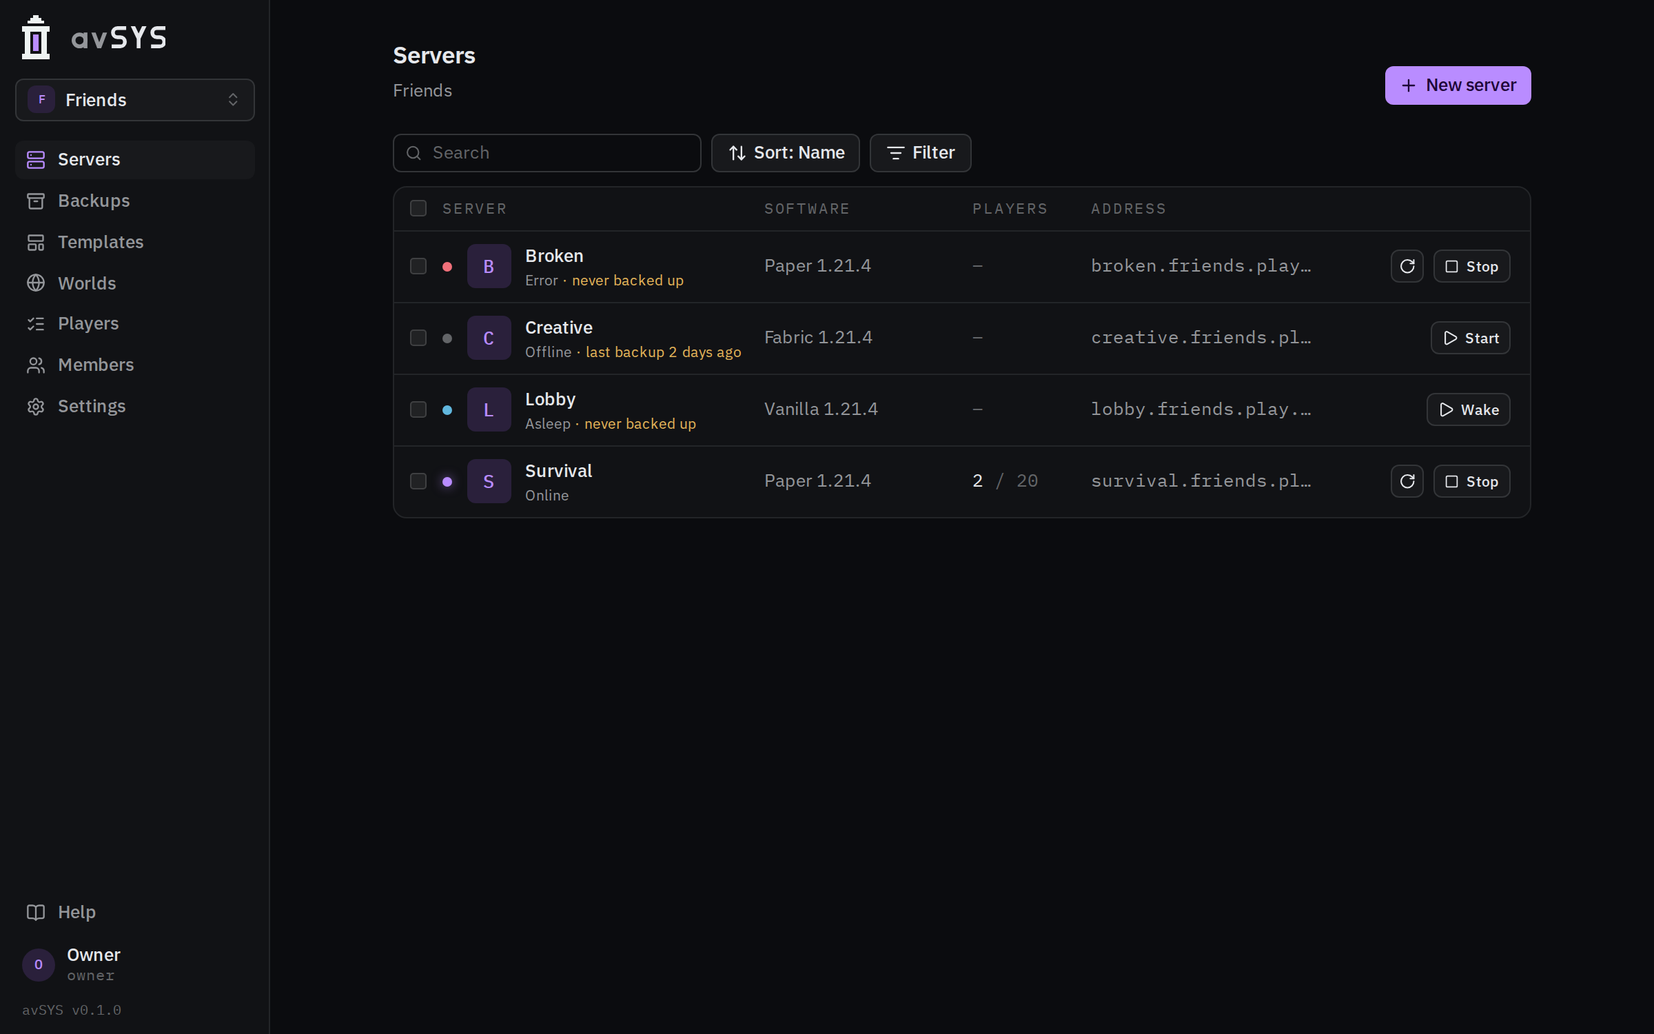
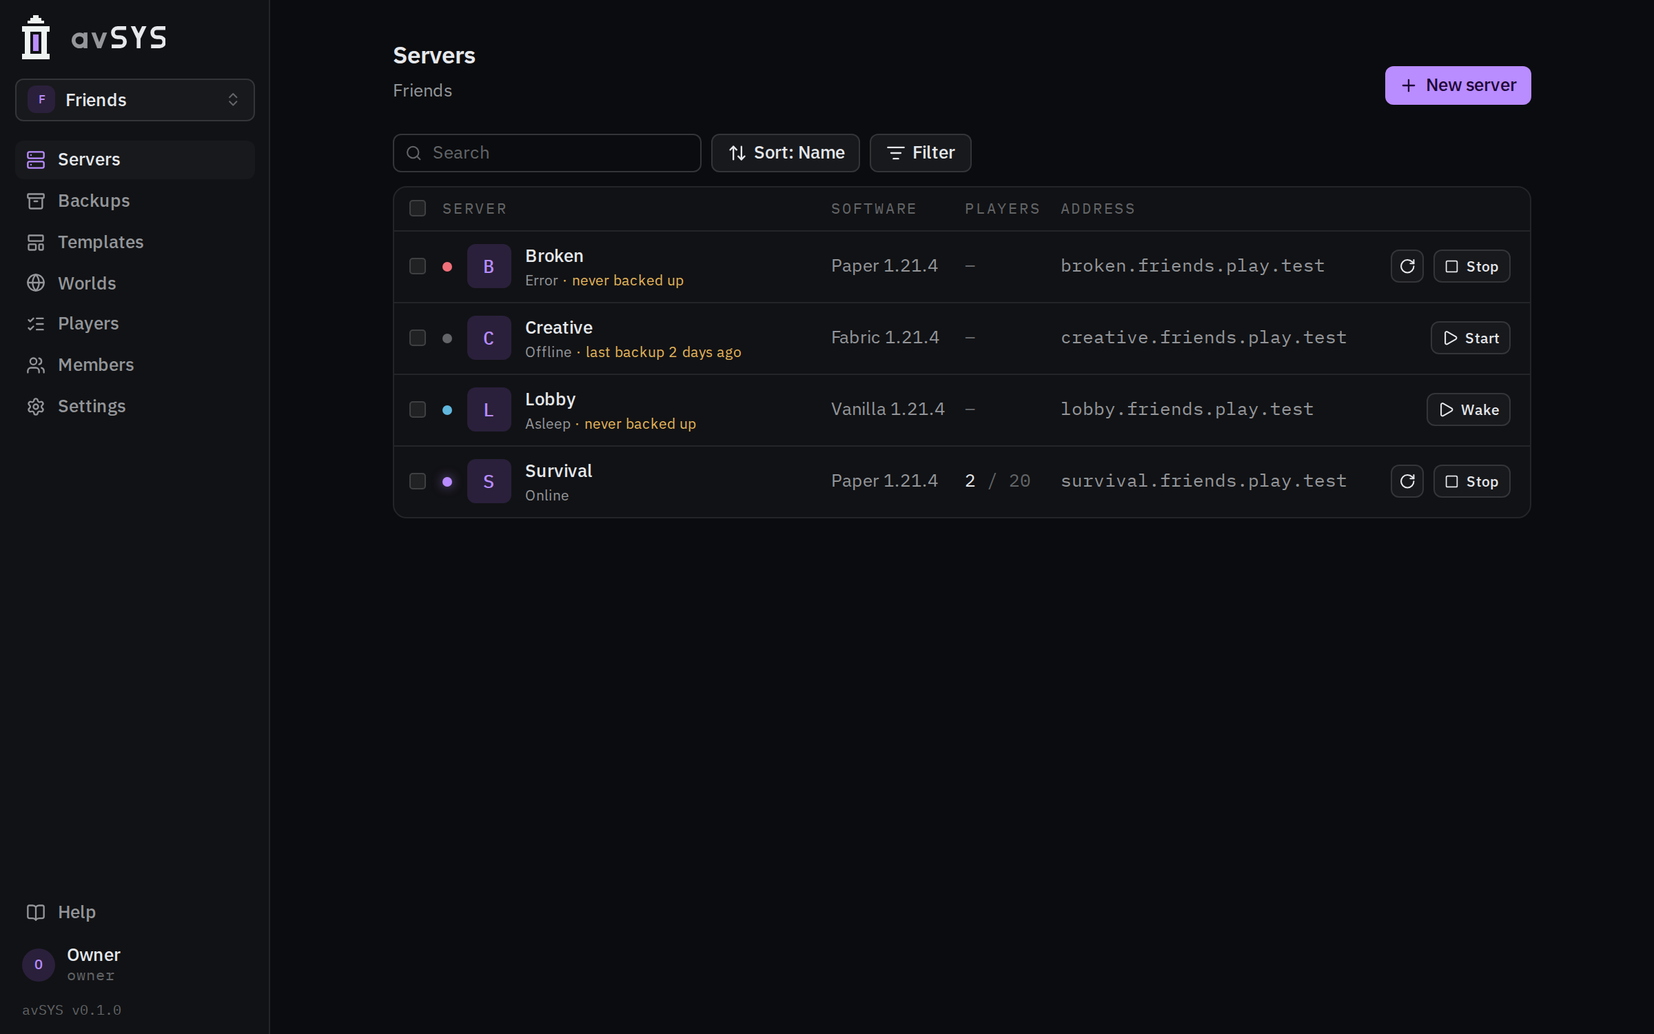
Let a server's name take the room in the servers list
The list's heading and rows share one grid: the name column takes what
the others leave, Software, Players and Address are as wide as what they
say (up to 11rem and 18rem), and the buttons' column fits them. A long
name goes onto a second line before it is cut short, with the whole of it
on hover; an address cut short shows whole when pointed at or tabbed to.
Templates, worlds and backups wrap long names the same way.

Seeds two long-named servers in the test panel's second organization.

diff --git a/web/tests/columns.spec.ts b/web/tests/columns.spec.ts
@@ -1,0 +1,165 @@
+import type { Locator, Page } from "@playwright/test";
+import { expect, test } from "./panel";
+
+// The list of servers is one grid, which its heading and every row share:
+// the name takes the room the other columns do not need, a long one goes
+// onto a second line rather than being cut short, and an address is only as
+// wide as it is, up to a point, past which it is shown whole when pointed at.
+
+const columns = ["server", "software", "players", "address", "actions"] as const;
+const long = ["Harpy Express (Oct. 2026) (Copy)", "Murder Mystery Test Server (Copy)"];
+
+const box = async (l: Locator) => {
+  const b = await l.boundingBox();
+  if (!b) throw new Error("not shown");
+  return b;
+};
+const heading = (page: Page) => page.getByRole("main").locator("div:has(> [data-col=server]):not(a)").first();
+const rows = (page: Page) => page.getByRole("main").getByRole("listitem");
+
+/** Whether an element shows all of its text: none of it cut off at the end or below. */
+const whole = (l: Locator) => l.evaluate((e) => e.scrollWidth <= e.clientWidth + 1 && e.scrollHeight <= e.clientHeight + 1);
+/** How many lines its text takes. */
+const lines = (l: Locator) =>
+  l.evaluate((e) => {
+    const style = getComputedStyle(e);
+    const line = parseFloat(style.lineHeight) || parseFloat(style.fontSize) * 1.2;
+    return Math.round(e.getBoundingClientRect().height / line);
+  });
+
+/** Each column of each row starts and ends where its heading does. */
+async function linedUp(page: Page) {
+  const head = heading(page);
+  const n = await rows(page).count();
+  expect(n).toBeGreaterThan(0);
+  for (const col of columns) {
+    const h = await box(head.locator(`[data-col=${col}]`));
+    for (let i = 0; i < n; i++) {
+      const c = await box(rows(page).nth(i).locator(`[data-col=${col}]`));
+      expect(Math.abs(c.x - h.x), `${col} of row ${i} starts with its heading`).toBeLessThan(1);
+      expect(Math.abs(c.width - h.width), `${col} of row ${i} is as wide as its heading`).toBeLessThan(1);
+    }
+  }
+}
+
+for (const width of [1600, 1100]) {
+  test.describe(`at ${width} wide`, () => {
+    test.beforeEach(async ({ page }) => page.setViewportSize({ width, height: 900 }));
+
+    test("long names are shown whole, and the heading lines up with the rows", async ({ page, as }) => {
+      await as("owner");
+      await page.goto("/o/club");
+      await expect(rows(page)).toHaveCount(5);
+      for (const name of long) {
+        const shown = page.getByRole("main").getByTitle(name, { exact: true });
+        await expect(shown).toHaveText(name);
+        expect(await whole(shown), `${name} is not cut short`).toBe(true);
+        expect(await lines(shown)).toBeLessThanOrEqual(2);
+      }
+      await linedUp(page);
+      // The address column is as wide as the widest address, and no wider.
+      const addresses = rows(page).locator("[data-col=address] > *");
+      const widest = Math.max(...(await addresses.evaluateAll((all) => all.map((e) => e.getBoundingClientRect().width))));
+      const column = await box(heading(page).locator("[data-col=address]"));
+      expect(column.width).toBeLessThanOrEqual(widest + 1);
+      for (const address of await rows(page).locator("[data-col=address] button span").all()) expect(await whole(address)).toBe(true);
+      // So the one with a short address has its buttons close after the widest.
+      const harpy = rows(page).filter({ hasText: long[0] });
+      const after = (await box(harpy.locator("[data-col=actions] button").first())).x - (column.x + column.width);
+      expect(after).toBeLessThanOrEqual(17);
+    });
+
+    test("with no addresses, the name has the room", async ({ page, as, org, api }) => {
+      const slug = await org([]);
+      const owner = api("owner");
+      for (const [name, displayName] of [
+        ["harpy", long[0]],
+        ["mystery", long[1]],
+        ["a", "A"],
+      ])
+        await owner.post(`/orgs/${slug}/servers`, {
+          name,
+          spec: { eula: true, displayName, loader: "paper", version: "1.21.4", state: "Stopped", resources: { memory: "2Gi" }, storage: { size: "2Gi" } },
+        });
+      await as("owner");
+      await page.goto(`/o/${slug}`);
+      await expect(rows(page)).toHaveCount(3);
+      await linedUp(page);
+      const list = await box(heading(page));
+      const server = await box(heading(page).locator("[data-col=server]"));
+      expect(server.width).toBeGreaterThan(list.width * 0.45);
+      // "No address" ends a column's gap from the buttons.
+      for (const name of long) {
+        const row = rows(page).filter({ hasText: name });
+        await expect(row.getByTitle(name, { exact: true })).toHaveText(name);
+        expect(await lines(row.getByTitle(name, { exact: true }))).toBe(1);
+        const none = await box(row.getByText("No address"));
+        const actions = await box(row.locator("[data-col=actions] button"));
+        expect(actions.x - (none.x + none.width)).toBeLessThanOrEqual(17);
+      }
+    });
+
+    test("a long address is cut short, and shown whole when pointed at or tabbed to", async ({ page, as, org }) => {
+      const slug = await org(["far", "near"]);
+      const far = "survival-world-for-the-whole-club.pc.tail1cd093.ts.net";
+      await page.route(`**/api/v1/orgs/${slug}/servers`, async (route) => {
+        const servers = await (await route.fetch()).json();
+        for (const s of servers) s.status.address = s.name === "far" ? far : "lobby.2cml.org";
+        await route.fulfill({ json: servers });
+      });
+      await as("owner");
+      await page.goto(`/o/${slug}`);
+      await expect(rows(page)).toHaveCount(2);
+      await linedUp(page);
+      const column = await box(heading(page).locator("[data-col=address]"));
+      const rem = await page.evaluate(() => parseFloat(getComputedStyle(document.documentElement).fontSize));
+      expect(column.width).toBeLessThanOrEqual(18 * rem + 1);
+      const address = page.getByRole("button", { name: far });
+      expect(await whole(address.locator("span").first())).toBe(false);
+      await address.hover();
+      await expect(page.getByRole("tooltip")).toHaveText(far);
+      await page.mouse.move(0, 0);
+      await expect(page.getByRole("tooltip")).toBeHidden();
+      // One that fits has nothing more to show.
+      const near = page.getByRole("button", { name: "lobby.2cml.org" });
+      await near.hover();
+      await expect(near).toHaveAttribute("title", "Copy");
+      await page.waitForTimeout(500);
+      await expect(page.getByRole("tooltip")).toBeHidden();
+      await page.mouse.move(0, 0);
+      await expect(page.getByRole("tooltip")).toBeHidden();
+      // From the server's link, the next stop is its address.
+      await rows(page).filter({ hasText: "far" }).getByRole("link").focus();
+      await page.keyboard.press("Tab");
+      await expect(address).toBeFocused();
+      await expect(page.getByRole("tooltip")).toHaveText(far);
+    });
+  });
+}
+
+test("just wide enough for columns, every row fits, and its buttons are whole", async ({ page, as }) => {
+  await page.setViewportSize({ width: 800, height: 900 });
+  await as("owner");
+  await page.goto("/o/friends");
+  await expect(rows(page)).toHaveCount(4);
+  await linedUp(page);
+  const list = await box(heading(page));
+  for (const row of await rows(page).all()) {
+    const actions = await box(row.locator("[data-col=actions]"));
+    expect(actions.x + actions.width).toBeLessThanOrEqual(list.x + list.width);
+    for (const button of await row.locator("[data-col=actions] button").all()) expect(await whole(button)).toBe(true);
+  }
+});
+
+test("on a phone a row is its name and its buttons", async ({ page, as }) => {
+  await page.setViewportSize({ width: 390, height: 844 });
+  await as("owner");
+  await page.goto("/o/club");
+  const harpy = rows(page).filter({ hasText: long[0] });
+  await expect(harpy.locator("[data-col=software]")).toBeHidden();
+  await expect(harpy.locator("[data-col=address]")).toBeHidden();
+  const name = await box(harpy.locator("[data-col=server]"));
+  const actions = await box(harpy.locator("[data-col=actions]"));
+  expect(actions.x).toBeGreaterThan(name.x + name.width - 1);
+  expect(Math.abs(actions.y + actions.height / 2 - (name.y + name.height / 2))).toBeLessThan(2);
+});

diff --git a/web/src/pages/Servers.tsx b/web/src/pages/Servers.tsx
@@ -58,7 +58,12 @@ const serverList: ListOptions<Server> = {
   ],
 };
 
-const columns = "grid grid-cols-[minmax(0,1.6fr)_minmax(0,1fr)_72px_minmax(0,1.3fr)_112px] items-center gap-4 px-4";
+// One grid for the whole list, which the heading and each row share: the
+// server's name takes what room is left, and the rest are as wide as what
+// they say, up to a point. On a phone a row is its name and its buttons.
+const table = "md:grid md:grid-cols-[minmax(min(18rem,45%),1fr)_fit-content(11rem)_auto_fit-content(18rem)_auto] md:gap-x-4";
+const shared = "md:col-span-full md:grid md:grid-cols-subgrid";
+const columns = `${shared} items-center gap-4 px-4`;
 
 type Act = "start" | "stop" | "restart" | "snapshot" | "delete";
 
@@ -208,22 +213,22 @@ export function Servers() {
         {shown.length === 0 ? (
           <p className="rounded-lg border border-line bg-surface px-4 py-8 text-center text-[13px] text-muted">No servers match.</p>
         ) : (
-        <div className="overflow-hidden rounded-lg border border-line bg-surface">
-          <div className={`${columns} label-mono relative hidden h-9 border-b border-line md:grid ${canOperate ? "pl-10" : ""}`}>
+        <div className={`overflow-hidden rounded-lg border border-line bg-surface ${table}`}>
+          <div className={`${columns} label-mono relative hidden h-9 border-b border-line ${canOperate ? "pl-10" : ""}`}>
             {canOperate && (
               <label className="absolute inset-y-0 left-0 flex w-10 cursor-pointer items-center justify-center">
                 <RowCheckbox checked={selection.all} partial={selection.some} quiet={selection.count === 0} label="Select every server" onChange={selection.toggleAll} />
               </label>
             )}
-            <span>Server</span>
-            <span>Software</span>
-            <span>Players</span>
-            <span>Address</span>
-            <span />
+            <span data-col="server" className="truncate">Server</span>
+            <span data-col="software" className="truncate">Software</span>
+            <span data-col="players" className="truncate">Players</span>
+            <span data-col="address" className="truncate">Address</span>
+            <span data-col="actions" />
           </div>
-          <ul>
+          <ul className={shared}>
             {shown.map((s) => (
-              <li key={s.name} className={`group relative border-b border-line last:border-b-0 ${selection.has(s.name) ? "bg-accent-wash" : ""}`}>
+              <li key={s.name} className={`${shared} group relative border-b border-line last:border-b-0 ${selection.has(s.name) ? "bg-accent-wash" : ""}`}>
                 {canOperate && (
                   <label className="absolute inset-y-0 left-0 z-10 flex w-10 cursor-pointer items-center justify-center">
                     <RowCheckbox checked={selection.has(s.name)} quiet={selection.count === 0} label={`Select ${s.name}`} onChange={(range) => selection.toggle(s.name, range)} />
@@ -231,14 +236,17 @@ export function Servers() {
                 )}
                 <Link
                   to={`s/${s.name}`}
-                  className={`${columns} min-h-14 py-2.5 text-[13px] transition-colors hover:bg-raised max-md:grid-cols-[minmax(0,1fr)_auto] ${canOperate ? "pl-10" : ""}`}
+                  className={`${columns} grid min-h-14 py-2.5 text-[13px] transition-colors hover:bg-raised max-md:grid-cols-[minmax(0,1fr)_auto] ${canOperate ? "pl-10" : ""}`}
                 >
-                  <span className="flex min-w-0 items-center gap-3">
+                  <span data-col="server" className="flex min-w-0 items-center gap-3">
                     <LinkStatusDot phase={s.status.phase} />
                     <Picture name={displayName(s)} url={serverIcon(s)} size={32} retryKey={`${s.status.phase}|${s.status.message ?? ""}`} />
                     <span className="min-w-0">
                       <span className="flex min-w-0 items-center gap-2">
-                        <span className="truncate font-medium">{displayName(s)}</span>
+                        {/* A long one goes onto a second line before it is cut short. */}
+                        <span className="line-clamp-2 min-w-0 font-medium break-words" title={displayName(s)}>
+                          {displayName(s)}
+                        </span>
                         <Faces people={others(people, me, s.name)} label="On this server now" size={18} ring="ring-surface" />
                       </span>
                       <span className="block truncate text-xs text-muted">
@@ -253,12 +261,18 @@ export function Servers() {
                       )}
                     </span>
                   </span>
-                  <span className="truncate text-muted max-md:hidden">{describeSoftware(s)}</span>
-                  <span className="max-md:hidden">
+                  <span data-col="software" className="truncate text-muted max-md:hidden" title={describeSoftware(s)}>
+                    {describeSoftware(s)}
+                  </span>
+                  <span data-col="players" className="whitespace-nowrap max-md:hidden">
                     <Players server={s} />
                   </span>
-                  <span className="min-w-0 max-md:hidden">{s.status.address ? <CopyText value={s.status.address} className="text-muted" /> : <span className="text-faint">No address</span>}</span>
-                  <span className="flex justify-end">{canOperate && <ServerActions server={s} compact />}</span>
+                  <span data-col="address" className="min-w-0 max-md:hidden">
+                    {s.status.address ? <CopyText value={s.status.address} className="text-muted" whole /> : <span className="whitespace-nowrap text-faint">No address</span>}
+                  </span>
+                  <span data-col="actions" className="flex justify-end">
+                    {canOperate && <ServerActions server={s} compact />}
+                  </span>
                 </Link>
               </li>
             ))}

diff --git a/web/src/components/ui.tsx b/web/src/components/ui.tsx
@@ -410,7 +410,7 @@ export function Tip({
           ref={bubble}
           id={id}
           role="tooltip"
-          hidden={!open}
+          hidden={!open || !text}
           style={at ? { left: at.left, top: at.top } : { left: 0, top: 0, visibility: "hidden" }}
           className="pointer-events-none fixed z-[70] w-max max-w-60 rounded-md border border-line-strong bg-surface px-2 py-1 text-xs leading-snug font-normal text-fg shadow-lg shadow-shade/50"
         >
@@ -503,13 +503,22 @@ async function copyToClipboard(value: string, near: HTMLElement) {
   if (!ok) throw new Error("copy was refused");
 }
 
-/** Text that copies itself when clicked: addresses, commands, tokens. */
-export function CopyText({ value, display, className, wrap }: { value: string; display?: ReactNode; className?: string; wrap?: boolean }) {
+/**
+ * Text that copies itself when clicked: addresses, commands, tokens. With
+ * whole, text cut short to fit is shown whole while pointed at or focused.
+ */
+export function CopyText({ value, display, className, wrap, whole }: { value: string; display?: ReactNode; className?: string; wrap?: boolean; whole?: boolean }) {
   const [copied, setCopied] = useState(false);
-  return (
+  const [cut, setCut] = useState(false);
+  const shown = useRef<HTMLSpanElement>(null);
+  const measure = () => setCut(!!shown.current && shown.current.scrollWidth > shown.current.clientWidth);
+  const button = (target?: TipTarget) => (
     <button
       type="button"
-      title="Copy"
+      title={whole && cut ? undefined : "Copy"}
+      {...target}
+      onPointerEnter={whole ? measure : undefined}
+      onFocus={whole ? measure : undefined}
       onClick={(e) => {
         e.preventDefault();
         e.stopPropagation();
@@ -523,9 +532,17 @@ export function CopyText({ value, display, className, wrap }: { value: string; d
       }}
       className={cx("group inline-flex max-w-full items-center gap-1.5 rounded-sm text-left font-mono text-[13px] text-fg hover:text-accent", className)}
     >
-      <span className={wrap ? "break-all" : "truncate"}>{display ?? value}</span>
+      <span ref={shown} className={wrap ? "break-all" : "truncate"}>
+        {display ?? value}
+      </span>
       {copied ? <Check className="size-3.5 shrink-0 text-accent" /> : <Copy className="size-3.5 shrink-0 text-faint opacity-0 transition-opacity group-hover:opacity-100 group-focus-visible:opacity-100" />}
     </button>
+  );
+  if (!whole) return button();
+  return (
+    <Tip text={cut ? value : ""} className="max-w-full min-w-0">
+      {button}
+    </Tip>
   );
 }
 

diff --git a/web/src/pages/Backups.tsx b/web/src/pages/Backups.tsx
@@ -213,7 +213,9 @@ export function Backups() {
                   lead={(s) => (
                     <span className="flex w-36 shrink-0 items-center gap-2 max-sm:w-24">
                       <ServerPicture org={org} name={s.server} server={byName.get(s.server)} known={!!servers.data} newest={groups.get(s.server)?.[0]?.id} size={24} />
-                      <span className="truncate text-[13px] font-medium">{s.server}</span>
+                      <span className="truncate text-[13px] font-medium" title={s.server}>
+                        {s.server}
+                      </span>
                     </span>
                   )}
                 />
@@ -303,7 +305,9 @@ function ServerGroup({ org, name, server, known, items, concern, open, onToggle,
       <ServerPicture org={org} name={name} server={server} known={known} newest={newest?.id} size={32} />
       <span className="min-w-0 flex-1">
         <span className="flex items-center gap-2">
-          <span className="truncate text-[13px] font-medium">{server ? displayName(server) : name}</span>
+          <span className="line-clamp-2 min-w-0 text-[13px] font-medium break-words" title={server ? displayName(server) : name}>
+            {server ? displayName(server) : name}
+          </span>
           {!server && known && <Chip>deleted server</Chip>}
         </span>
         <span className="block truncate text-xs text-muted">

diff --git a/web/src/pages/Worlds.tsx b/web/src/pages/Worlds.tsx
@@ -107,10 +107,10 @@ export function Worlds() {
                   {canDelete && <RowCheckbox checked={selection.has(w.id)} quiet={selection.count === 0} label={`Select ${w.name}`} onChange={(range) => selection.toggle(w.id, range)} className="mr-1" />}
                   <PictureZoom name={w.name} url={worldIcon(org, w.id)} retryKey={w.updatedAt} size={36} path={canAdd ? `/orgs/${org}/worlds/${w.id}/icon` : undefined} />
                   <div className="min-w-0 flex-1">
-                    <p className="truncate text-[13px] font-medium">
+                    <p className="text-[13px] font-medium">
                       {/* The way into what the world has. */}
-                      <button type="button" onClick={() => setLooking(w)} className="max-w-full truncate rounded-sm text-left hover:text-accent" aria-label={`About ${w.name}`}>
-                        {w.name}
+                      <button type="button" onClick={() => setLooking(w)} className="max-w-full rounded-sm text-left hover:text-accent" aria-label={`About ${w.name}`} title={w.name}>
+                        <span className="line-clamp-2 break-words">{w.name}</span>
                       </button>
                     </p>
                     {w.description && <p className="line-clamp-2 text-xs text-muted">{w.description}</p>}

diff --git a/web/src/pages/Templates.tsx b/web/src/pages/Templates.tsx
@@ -106,7 +106,9 @@ export function Templates() {
               {canAdmin && <RowCheckbox checked={selection.has(t.id)} quiet={selection.count === 0} label={`Select ${t.name}`} onChange={(range) => selection.toggle(t.id, range)} className="mr-1" />}
               <PictureZoom name={t.name} url={t.current ? snapshotIcon(org, t.current.id) : undefined} size={36} />
               <div className="min-w-0 flex-1">
-                <p className="truncate text-[13px] font-medium">{t.name}</p>
+                <p className="line-clamp-2 text-[13px] font-medium break-words" title={t.name}>
+                  {t.name}
+                </p>
                 {t.description && <p className="line-clamp-2 text-xs text-muted">{t.description}</p>}
                 <p className={cx("mt-0.5 text-xs text-faint", !ready(t) && "flex items-center gap-1.5")}>
                   {ready(t) ? (

diff --git a/cmd/avsys-uitest/main.go b/cmd/avsys-uitest/main.go
@@ -305,14 +305,26 @@ func populate(ctx context.Context, srv *api.Server, cluster client.Client, dir s
 		// Moved in from elsewhere: its mods and datapacks are files in its
 		// folders, which the panel did not add (see loose.go).
 		{org: "club", name: "bingo", display: "Drehmal Bingo", loader: avsysv1.LoaderFabric, version: "1.20.1", state: avsysv1.StateStopped, phase: avsysv1.PhaseStopped},
+		// Long names, as copies get, for the list to wrap: one with a short
+		// address, one with none.
+		{org: "club", name: "harpy-express-copy", display: "Harpy Express (Oct. 2026) (Copy)", loader: avsysv1.LoaderFabric, version: "1.21.4", state: avsysv1.StateRunning, phase: avsysv1.PhaseRunning, players: players, host: "lobby.2cml.org"},
+		{org: "club", name: "murder-mystery-copy", display: "Murder Mystery Test Server (Copy)", loader: avsysv1.LoaderPaper, version: "1.21.4", state: avsysv1.StateStopped, phase: avsysv1.PhaseStopped, host: "-"},
 	} {
+		host := s.host
+		if host == "" {
+			host = s.name + "." + s.org + ".play.test"
+		}
+		expose := avsysv1.ExposeSpec{Type: avsysv1.ExposeRouter, Hostname: host}
+		if host == "-" {
+			expose = avsysv1.ExposeSpec{Type: avsysv1.ExposeNone}
+		}
 		mc := &avsysv1.MinecraftServer{
 			ObjectMeta: metav1.ObjectMeta{Namespace: srv.Namespace(s.org), Name: s.name, CreationTimestamp: metav1.NewTime(time.Now().Add(-48 * time.Hour))},
 			Spec: avsysv1.MinecraftServerSpec{
 				EULA: true, DisplayName: s.display, Version: s.version, Loader: s.loader, State: s.state, Mods: s.mods,
 				Resources: avsysv1.ResourcesSpec{Memory: resource.MustParse("4Gi")},
 				Storage:   avsysv1.StorageSpec{Size: resource.MustParse("10Gi")},
-				Expose:    avsysv1.ExposeSpec{Type: avsysv1.ExposeRouter, Hostname: s.name + "." + s.org + ".play.test"},
+				Expose:    expose,
 				Sleep:     avsysv1.SleepSpec{Enabled: s.sleep, IdleMinutes: 15},
 			},
 		}
@@ -507,6 +519,9 @@ type seed struct {
 	players            *avsysv1.PlayersStatus
 	mods               []avsysv1.ContentRef
 	sleep              bool
+	// host is the address players join it at: its name under the
+	// organization's if empty, and none for "-".
+	host string
 	// lastBackup is how long ago its scheduled snapshot last ran, if it has.
 	lastBackup time.Duration
 }
